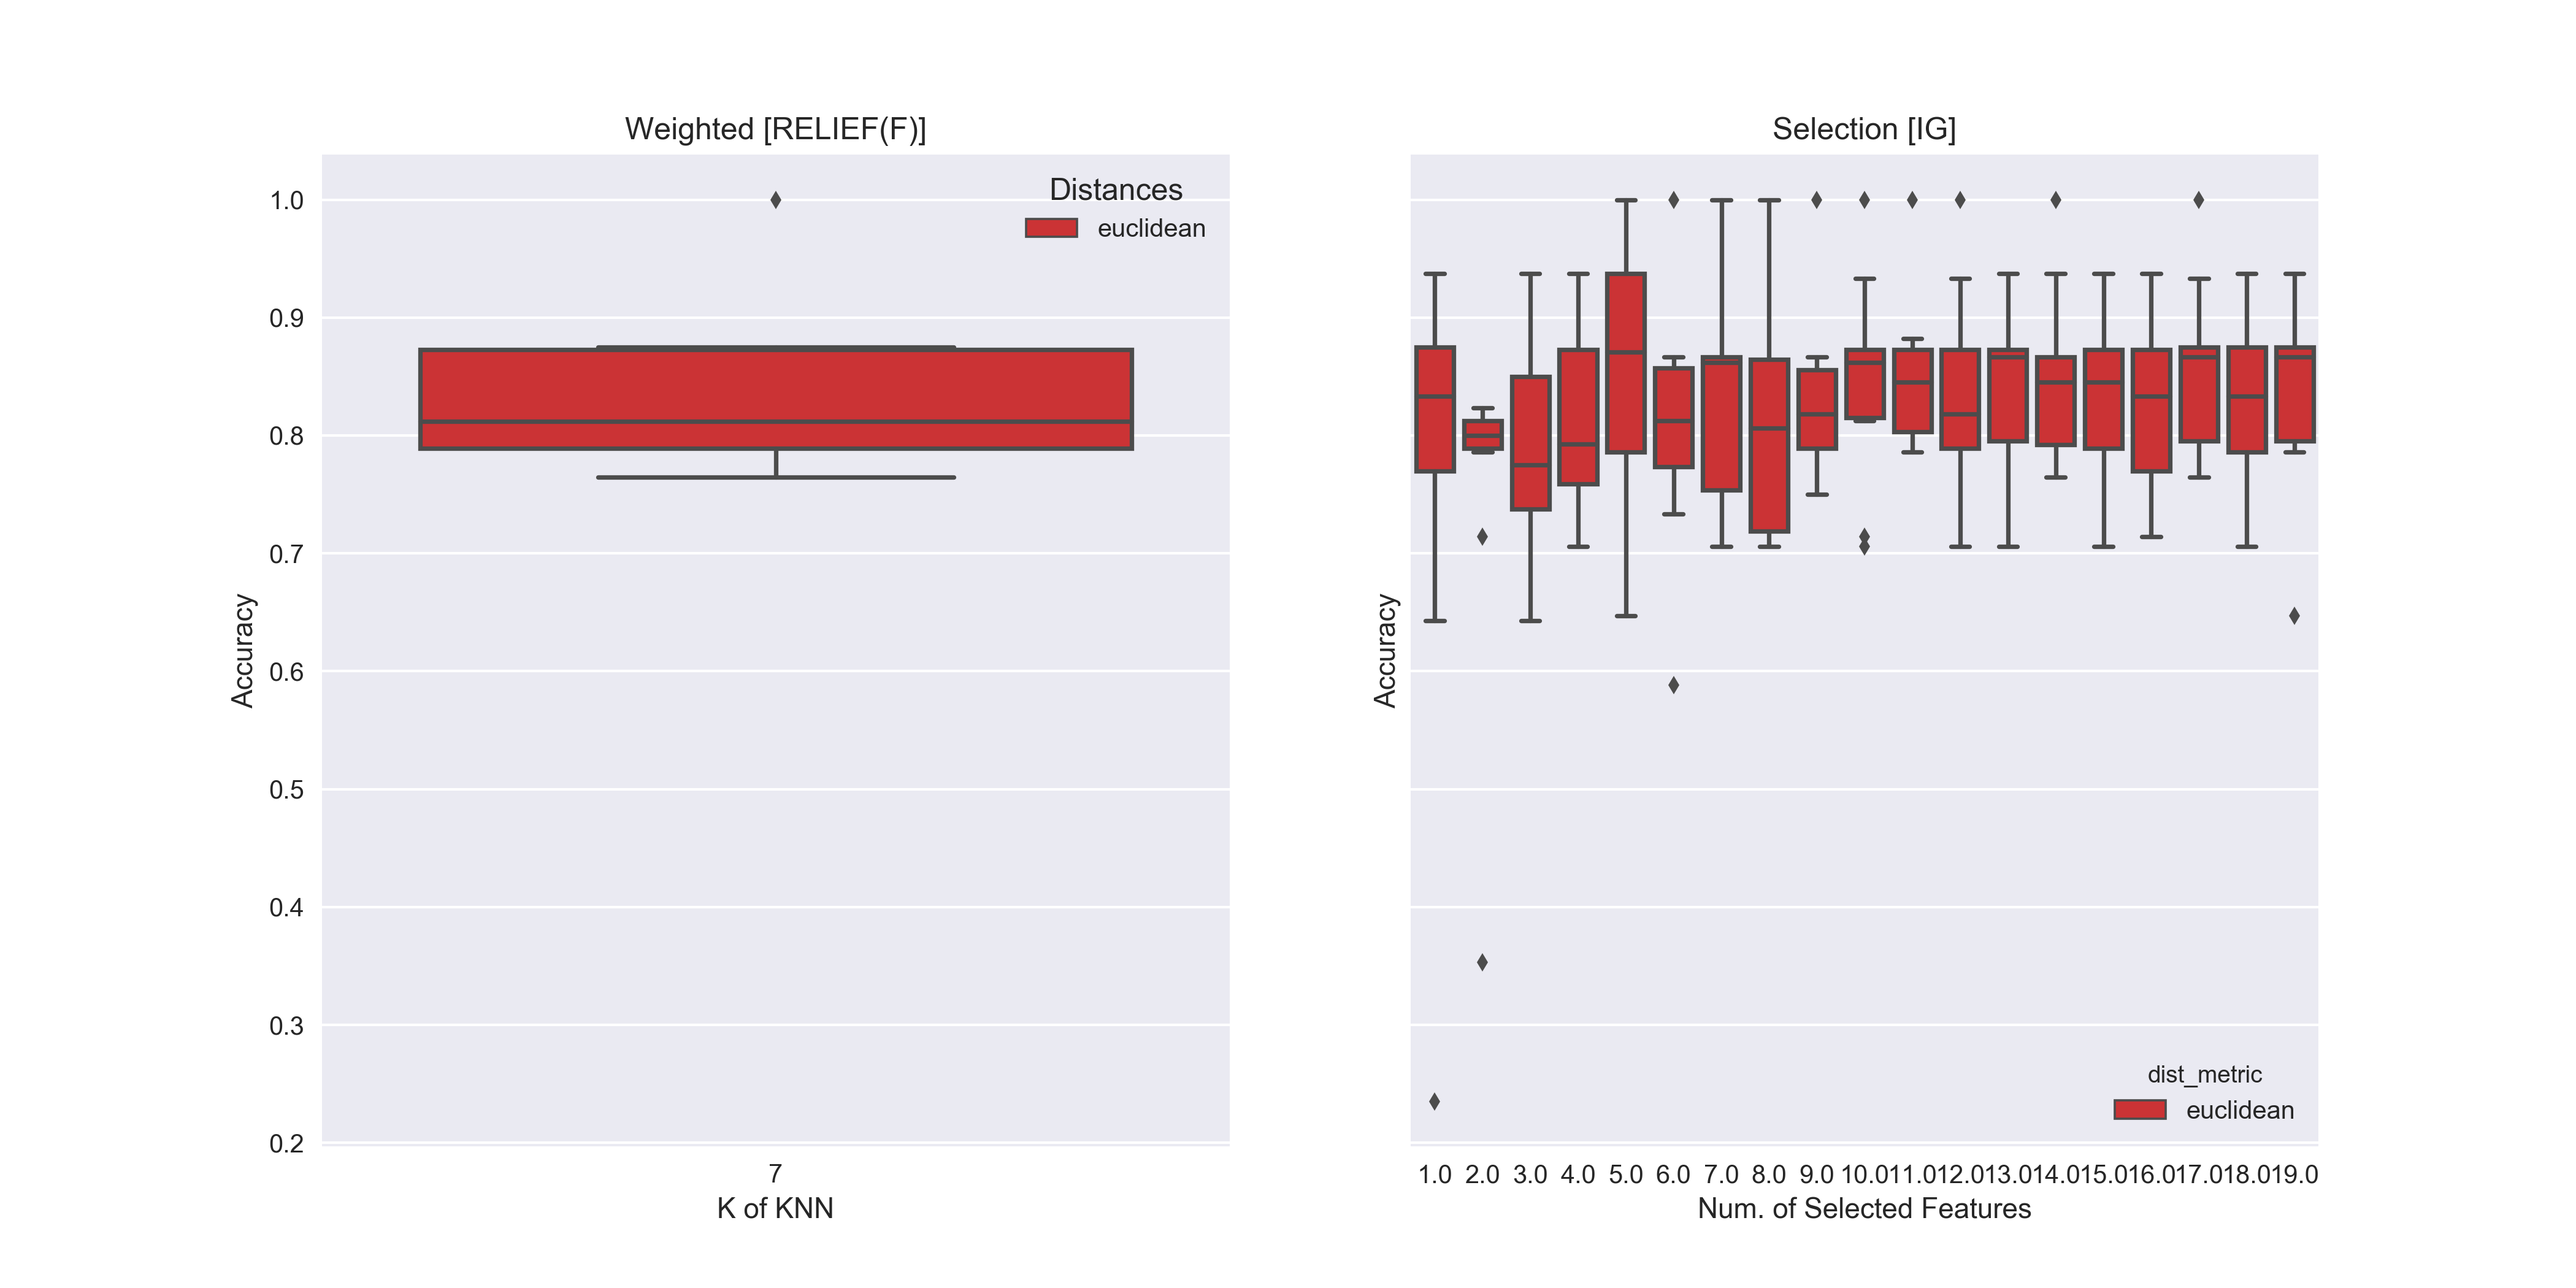
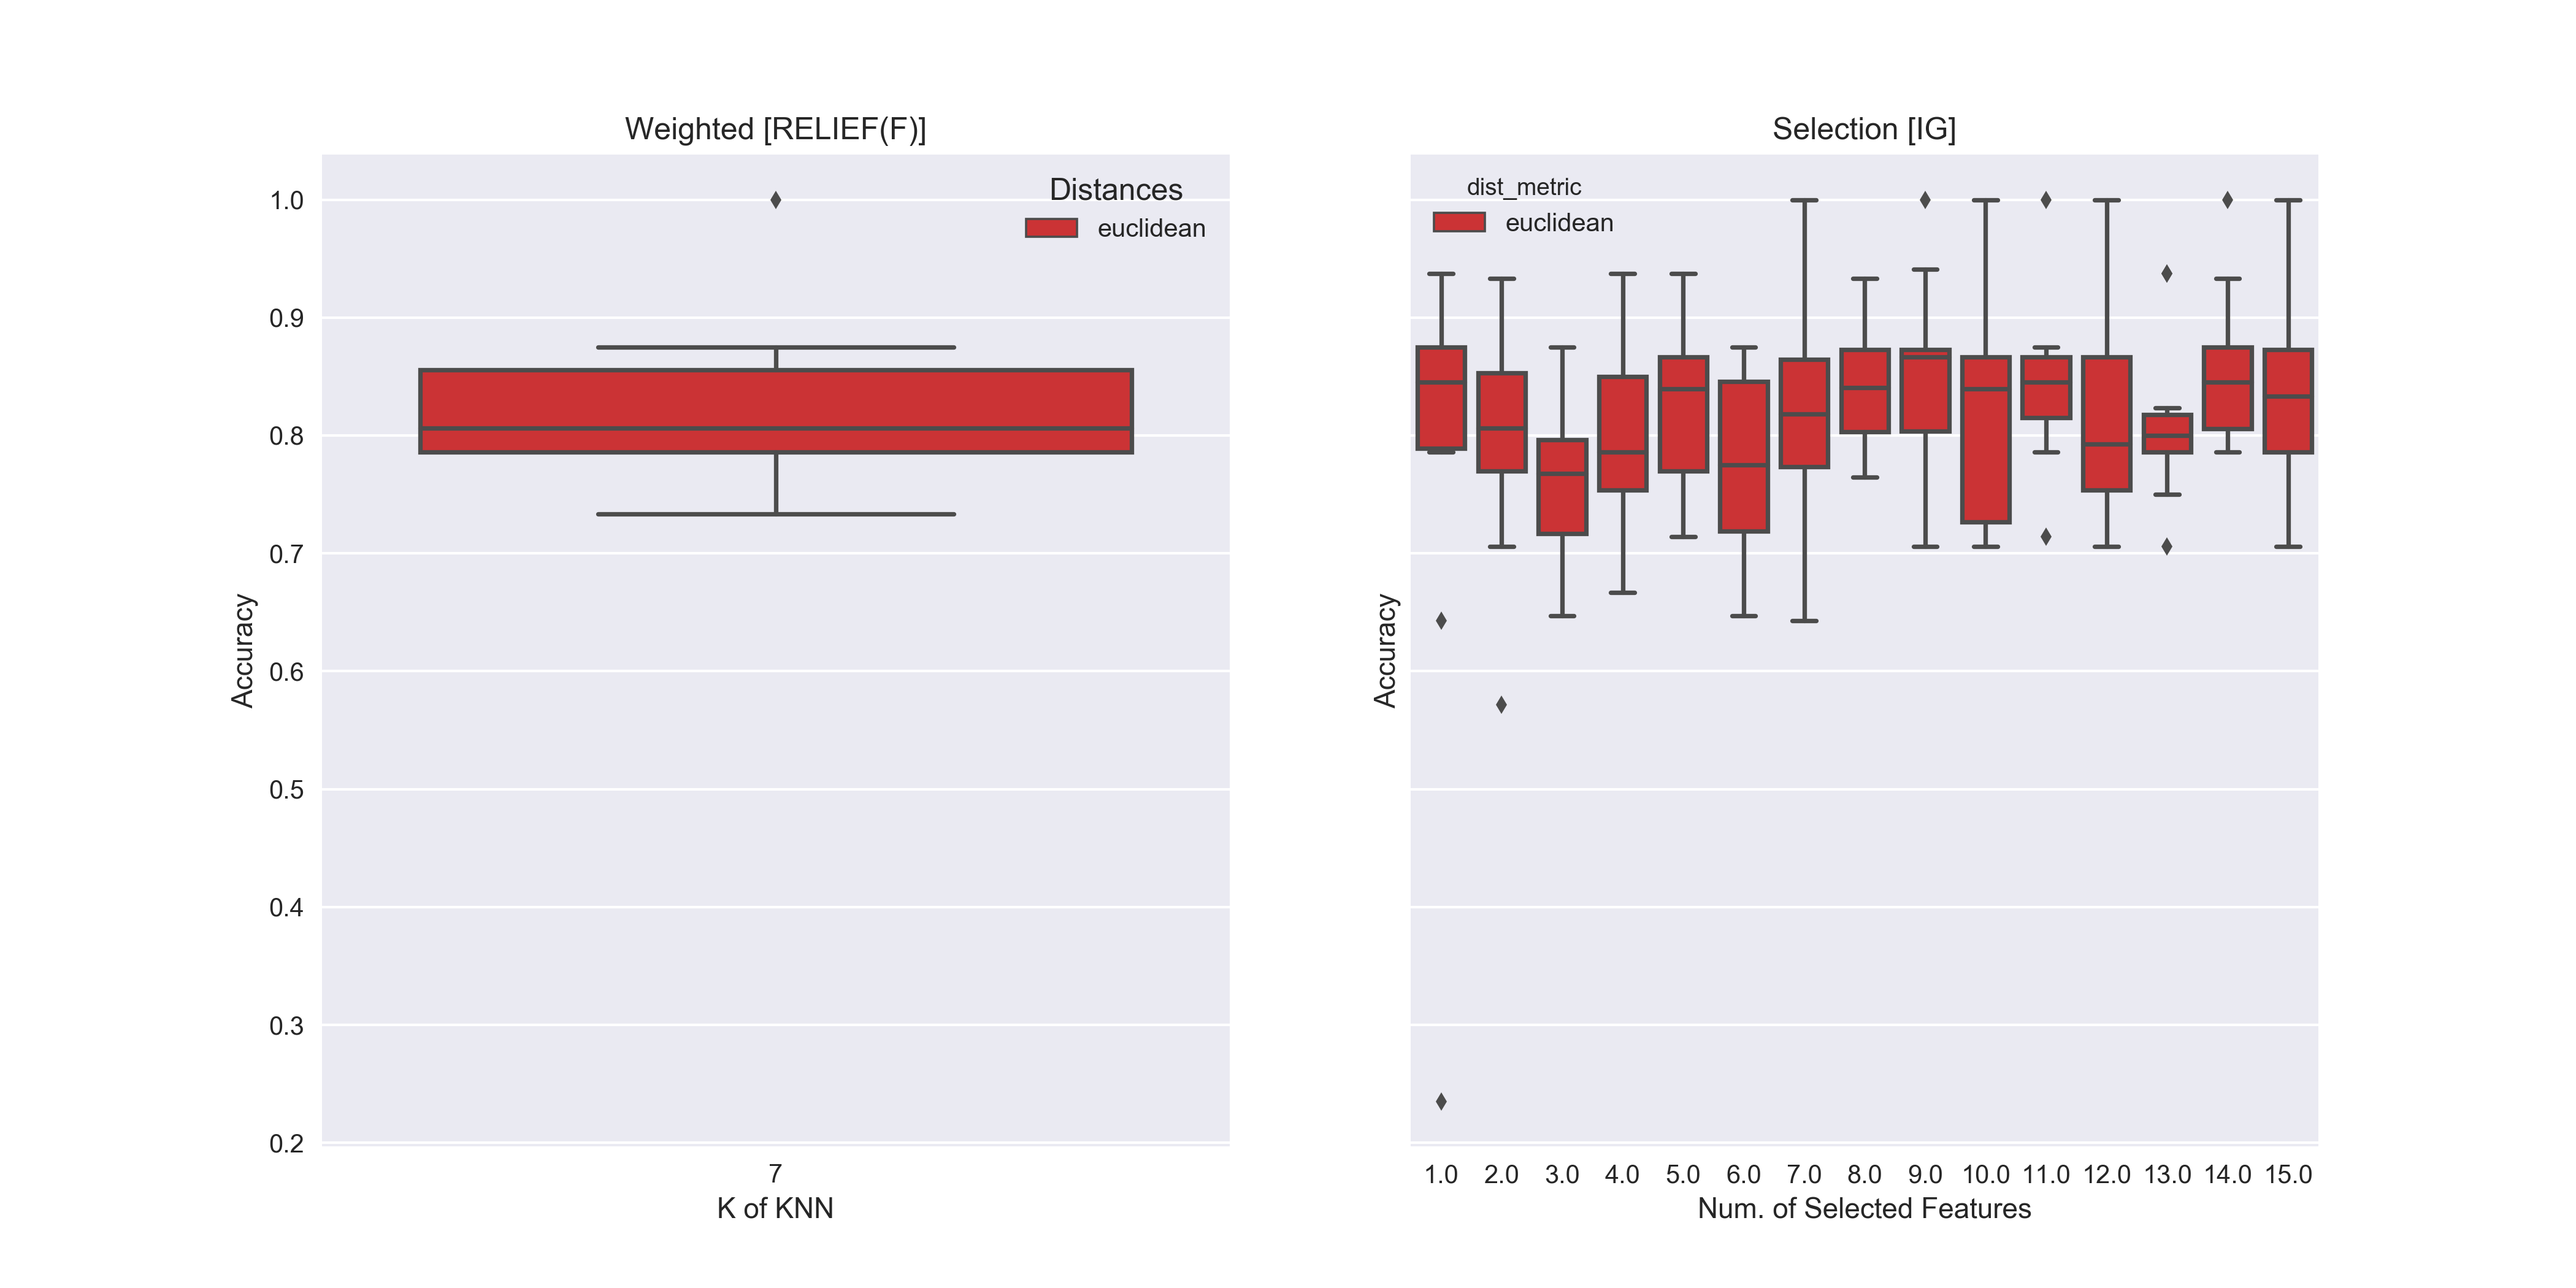
heaviest weight idx

diff --git a/ex3-KNN/main.py b/ex3-KNN/main.py
@@ -11,9 +11,9 @@ from knn_utils import *
 from kNNAlgorithm import *
 from Parser import *
 # DEFAULT VALUES
-LOAD_PICKLE = True
-SAVE_PICKLE = False
-NULL_ACCEPT = 0.05
+LOAD_PICKLE = False
+SAVE_PICKLE = True
+NULL_ACCEPT = 0.1
 DEFAULT_K = [1, 3, 5, 7]
 DEFAULT_DIST = ['euclidean', 'cosine', 'hamming', 'minkowski', 'correlation']
 DEFAULT_A_PARAMS = [{'name': "Weighted knn", 'sel_method': 'relief', 'num_features': [0]},
@@ -22,7 +22,7 @@ DEFAULT_A_PARAMS = [{'name': "Weighted knn", 'sel_method': 'relief', 'num_featur
 
 def main_run(data_sets, k_values=DEFAULT_K, dist_metrics=DEFAULT_DIST, algo_params=DEFAULT_A_PARAMS):
     results = pd.DataFrame(columns=['algorithm', 'dataset', 'fold', 'dist_metric', 'k_value', 'run_time', 'c_matrix',
-                                    'accuracy'])
+                                    'heaviest_feature', 'accuracy'])
     for dataset in data_sets:
         for f in range(0, 10):
             path = 'datasets/{0}/{0}.fold.00000{1}'.format(dataset['name'], f)
@@ -30,7 +30,8 @@ def main_run(data_sets, k_values=DEFAULT_K, dist_metrics=DEFAULT_DIST, algo_para
 
             for params in algo_params:
                 for sf in params['num_features']:
-                    weights = knn_weights(X_train, y_train, sf, **params)
+                    weights, w_idx = knn_weights(X_train, y_train, sf, **params)
+                    print('IDXs of weights, heaviest desc', w_idx)
 
                     for dist in dist_metrics:
                         for k in k_values:
@@ -39,7 +40,8 @@ def main_run(data_sets, k_values=DEFAULT_K, dist_metrics=DEFAULT_DIST, algo_para
                             results = results.append({'algorithm': params['name'], 'num_features': np.int(sf),
                                                       'dataset': dataset['name'], 'fold': f, 'dist_metric': dist,
                                                       'k_value': k, 'run_time': delta, 'c_matrix': c_matrix,
-                                                      'accuracy': accuracy}, ignore_index=True)
+                                                      'heaviest_feature': w_idx[0], 'accuracy': accuracy},
+                                                     ignore_index=True)
                             print(params['name'], dataset['name'], f, dist, k, 'c_matrix' + str(c_matrix), accuracy)
     return results
 
@@ -72,10 +74,10 @@ w3plot(hep_res_part1, part=1, filename="hepa_res_part1.png")
 accept, p_value, mean_ranks, p_values = acceptance_test(hep_res_part1)
 print('ACCEPT:', accept, 'MEAN_RANKS', mean_ranks, 'P_VALUES', p_value)
 """
-    Hepatitis Part II:    
+    Hepatitis Part II:
 """
 hepa_algo_params = [{'name': "Weighted knn", 'sel_method': 'relief', 'num_features': [0]},
-                    {'name': "Selection knn", 'sel_method': 'information_gain', 'num_features': range(1, 20),
+                    {'name': "Selection knn", 'sel_method': 'information_gain', 'num_features': range(1, 16),
                      'discrete_features': 'auto'}]
 
 if hep_res_part2 is None:
@@ -87,48 +89,48 @@ if SAVE_PICKLE:
 w3plot(hep_res_part2, part=2, filename="hepa_res_part2.png")
 accept, p_value, mean_ranks, p_values = acceptance_test(hep_res_part2)
 print('ACCEPT:', accept, 'MEAN_RANKS', mean_ranks, 'P_VALUES', p_value)
-"""
-    Pen-based Part I:
-    Euclidian k = 3, all algos have the same results. Standard distance selected with best K median.
-"""
-penb_data_set = [{'name': "pen-based", 'dummy_value': "", 'class_field': "a17"}]
-
-if penb_res_part1 is None:
-    penb_res_part1 = main_run(penb_data_set, dist_metrics=['euclidean', 'cosine', 'hamming', 'minkowski'],
-                              algo_params=no_feature_algo)
-if SAVE_PICKLE:
-    penb_res_part1.to_pickle("penb_res_part1.df")
-
-w3plot(penb_res_part1, part=1, filename="penb_res_part1.png")
-w3plot(
-    penb_res_part1[~penb_res_part1["dist_metric"].isin(["hamming"])], part=1, filename="penb_res_part1_no_hamming.png"
-)
-# Discard Hamming distance as low performant
-penb_res_part1 = penb_res_part1[~penb_res_part1["dist_metric"].isin(["hamming"])]
-accept, p_value, mean_ranks, p_values = acceptance_test(penb_res_part1)
-# No point of applying Nemenyi test, p-value of 0.06 and absolute differences are between 0.98-0.99 of accurancy
-print('ACCEPT:', accept, 'MEAN_RANKS', mean_ranks, 'P_VALUES', p_value)
-"""
-    Pen-based Part II:
-"""
-penb_algo_params = [{'name': "Weighted knn", 'sel_method': 'relieff', 'num_features': [0]},
-                    {'name': "Selection knn", 'sel_method': 'information_gain', 'num_features': range(1, 16),
-                     'discrete_features': False}]
-
-if penb_res_part2 is None:
-    penb_res_part2 = main_run(penb_data_set, k_values=[3], dist_metrics=['euclidean'], algo_params=penb_algo_params)
-
-if SAVE_PICKLE:
-    penb_res_part2.to_pickle("penb_res_part2.df")
-
-w3plot(penb_res_part2, part=2, filename="penb_res_part2.png")
-# Conclusions:
-# - the more features the better accuracy in Selection
-#   a) we consider that the pen-based was made by experts considering all features are important for the classification
-#   b) chart confirm the trend of increasing accuracy by adding features
-# - Compare the weighted against the best selection candidate
-#   weighted candidate vs against last/best (two) selection candidate
-#   results are no differences p-value of 0.246, as all seems to be important, weighted should be fine
-penb_res_part2_2 = penb_res_part2[(penb_res_part2["algorithm"] == "Weighted knn") | (penb_res_part2["num_features"] >= 17.0)]
-accept, p_value, mean_ranks, p_values = acceptance_test(penb_res_part2_2)
-print('ACCEPT:', accept, 'MEAN_RANKS', mean_ranks, 'P_VALUES', p_value)
+# """
+#     Pen-based Part I:
+#     Euclidian k = 3, all algos have the same results. Standard distance selected with best K median.
+# """
+# penb_data_set = [{'name': "pen-based", 'dummy_value': "", 'class_field': "a17"}]
+#
+# if penb_res_part1 is None:
+#     penb_res_part1 = main_run(penb_data_set, dist_metrics=['euclidean', 'cosine', 'hamming', 'minkowski'],
+#                               algo_params=no_feature_algo)
+# if SAVE_PICKLE:
+#     penb_res_part1.to_pickle("penb_res_part1.df")
+#
+# w3plot(penb_res_part1, part=1, filename="penb_res_part1.png")
+# w3plot(
+#     penb_res_part1[~penb_res_part1["dist_metric"].isin(["hamming"])], part=1, filename="penb_res_part1_no_hamming.png"
+# )
+# # Discard Hamming distance as low performant
+# penb_res_part1 = penb_res_part1[~penb_res_part1["dist_metric"].isin(["hamming"])]
+# accept, p_value, mean_ranks, p_values = acceptance_test(penb_res_part1)
+# # No point of applying Nemenyi test, p-value of 0.06 and absolute differences are between 0.98-0.99 of accurancy
+# print('ACCEPT:', accept, 'MEAN_RANKS', mean_ranks, 'P_VALUES', p_value)
+# """
+#     Pen-based Part II:
+# """
+# penb_algo_params = [{'name': "Weighted knn", 'sel_method': 'relieff', 'num_features': [0]},
+#                     {'name': "Selection knn", 'sel_method': 'information_gain', 'num_features': range(1, 16),
+#                      'discrete_features': False}]
+#
+# if penb_res_part2 is None:
+#     penb_res_part2 = main_run(penb_data_set, k_values=[3], dist_metrics=['euclidean'], algo_params=penb_algo_params)
+#
+# if SAVE_PICKLE:
+#     penb_res_part2.to_pickle("penb_res_part2.df")
+#
+# w3plot(penb_res_part2, part=2, filename="penb_res_part2.png")
+# # Conclusions:
+# # - the more features the better accuracy in Selection
+# #   a) we consider that the pen-based was made by experts considering all features are important for the classification
+# #   b) chart confirm the trend of increasing accuracy by adding features
+# # - Compare the weighted against the best selection candidate
+# #   weighted candidate vs against last/best (two) selection candidate
+# #   results are no differences p-value of 0.246, as all seems to be important, weighted should be fine
+# penb_res_part2_2 = penb_res_part2[(penb_res_part2["algorithm"] == "Weighted knn") | (penb_res_part2["num_features"] >= 17.0)]
+# accept, p_value, mean_ranks, p_values = acceptance_test(penb_res_part2_2)
+# print('ACCEPT:', accept, 'MEAN_RANKS', mean_ranks, 'P_VALUES', p_value)

diff --git a/ex3-KNN/knn_utils.py b/ex3-KNN/knn_utils.py
@@ -31,11 +31,13 @@ def run_knn(knnAlgorithm, X_train, y_train, X_test, y_test):
 def knn_weights(X_train, y_train, sf, **kwargs):
     num_features = sf
     weights = None
+    w_idx = ['N/A']
+
     if kwargs["sel_method"] == 'information_gain':
         weights = skfs.mutual_info_classif(X_train, y_train, discrete_features=kwargs["discrete_features"])
+        w_idx = np.argsort(-weights)
 
         if num_features > 0:
-            w_idx = np.argsort(-weights)
             weights[w_idx[:num_features]] = 1
             weights[w_idx[num_features:]] = 0
 
@@ -43,13 +45,15 @@ def knn_weights(X_train, y_train, sf, **kwargs):
         r = relief.Relief(n_features=num_features)
         r.fit_transform(X_train, y_train)
         weights = r.w_
+        w_idx = np.argsort(-weights)
 
     elif kwargs["sel_method"] == 'relieff':
         r = relief.ReliefF()
         r.fit_transform(X_train, y_train)
         weights = r.w_
+        w_idx = np.argsort(-weights)
 
-    return weights
+    return weights, w_idx
 
 
 def friedman_test(accuracies_array, alpha=0.1):
